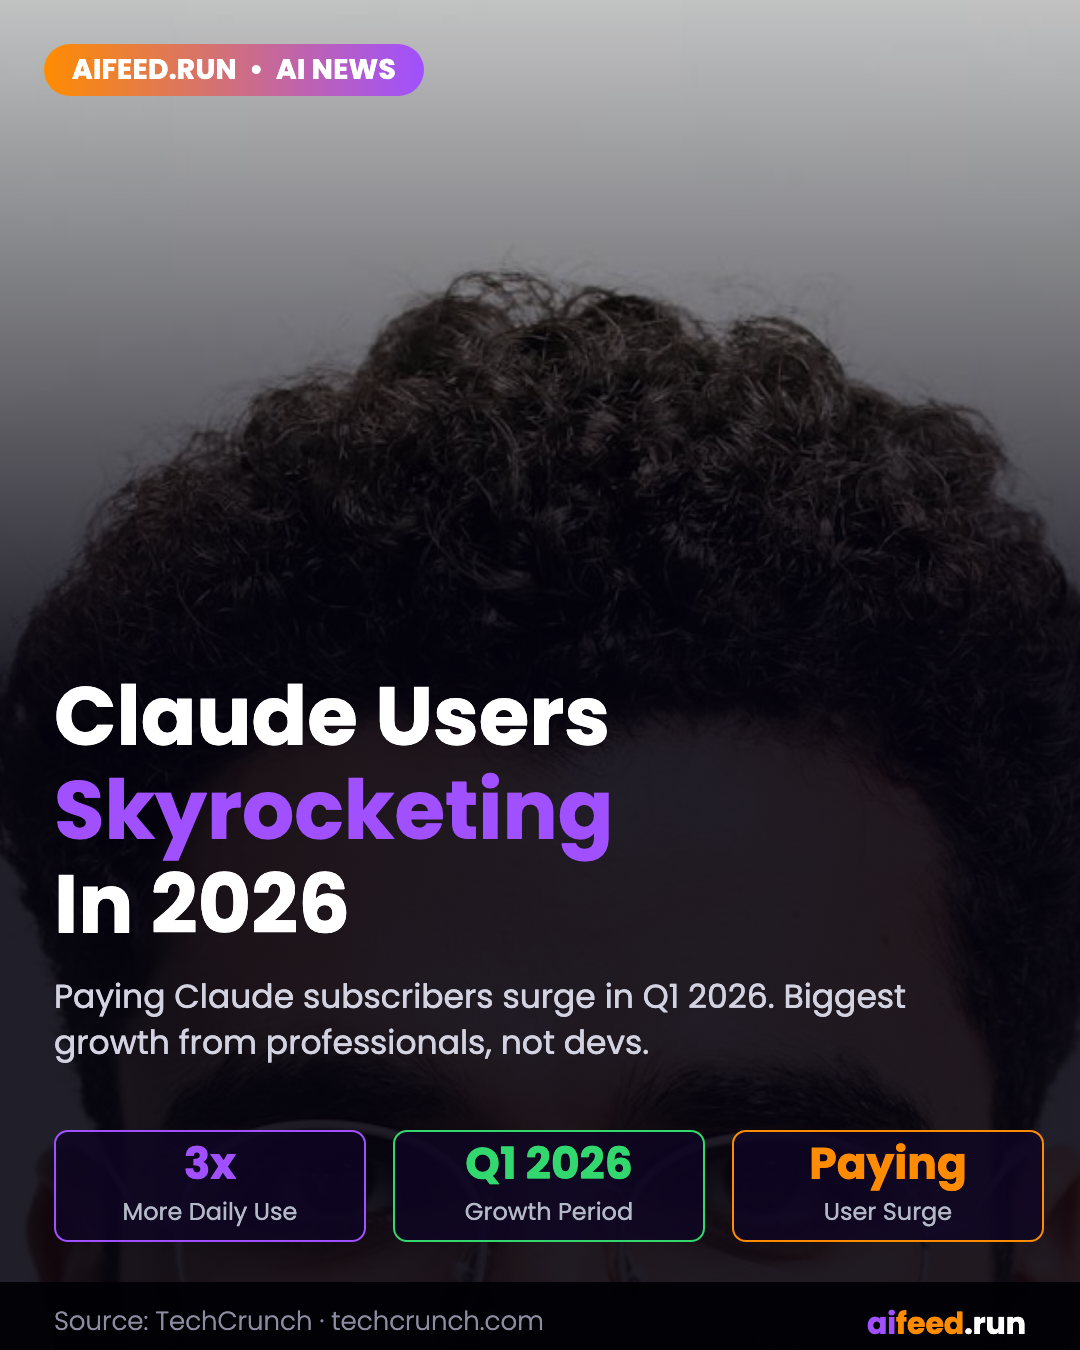
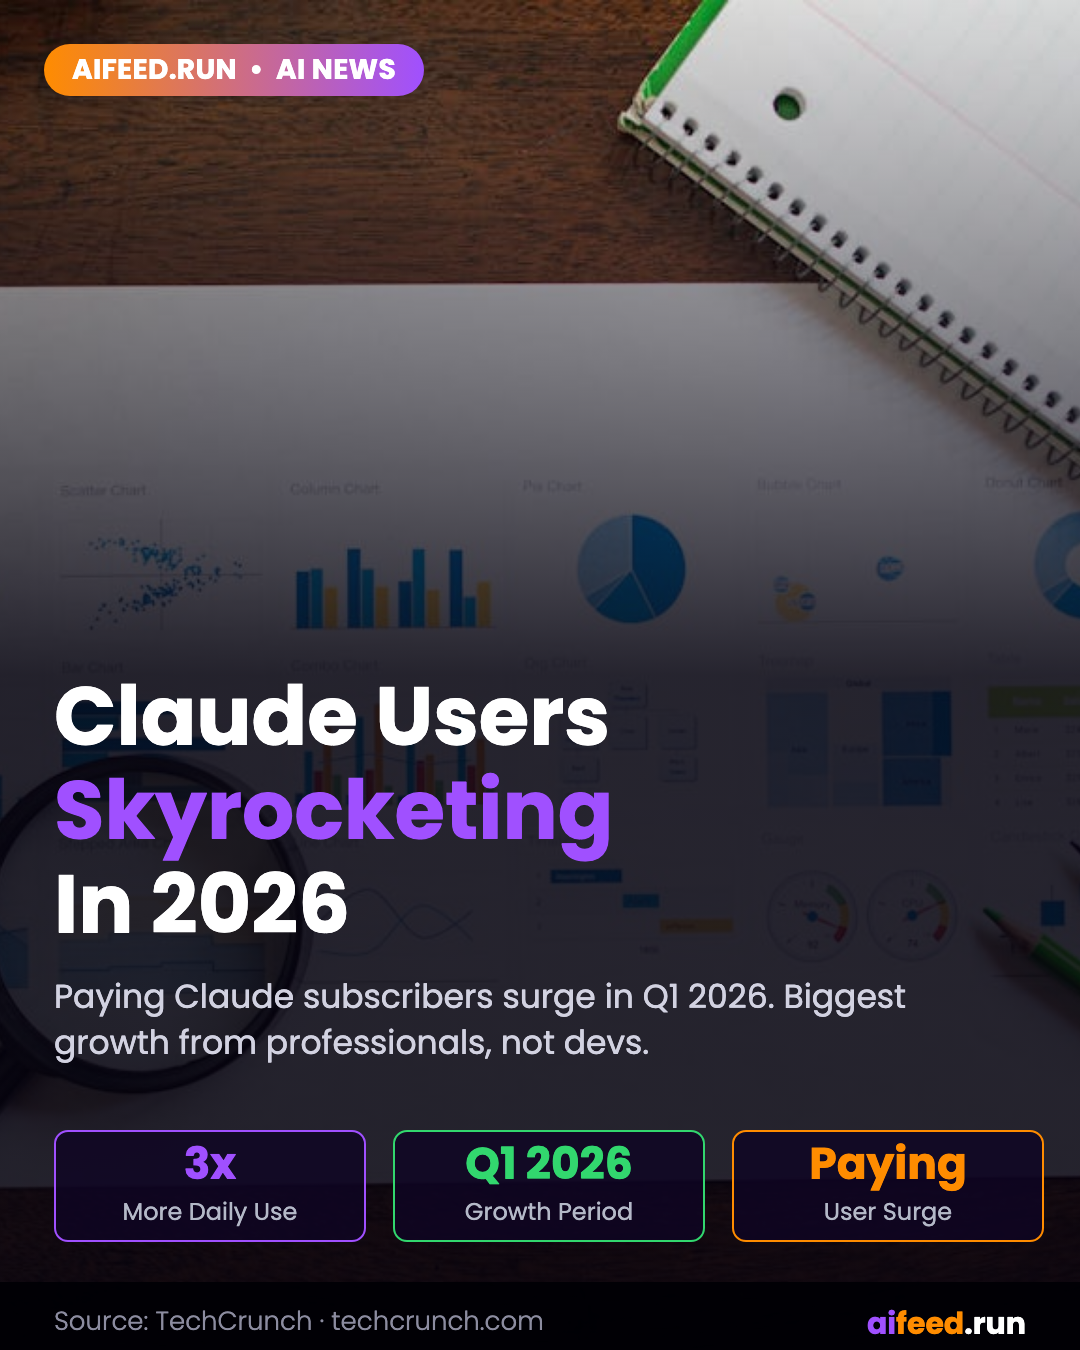
Replace Claude popularity graphic background with abstract tech image
Previous background (bg_claudepop.jpg, Pexels 5474305) was a close-up of hair — replaced with bg_claudepop2.jpg (Pexels 7947663, abstract tech/AI visual). Updated CLAUDE.md background registry accordingly.

diff --git a/CLAUDE.md b/CLAUDE.md
@@ -188,7 +188,7 @@ Each display line: **max 4 words, max 20 characters**. At 82px font, more than ~
 | aifeed_google_opens_gemma.png | bg_gemmaopen.jpg | unique (Pexels 1181671) |
 | aifeed_vcs_poured.png | bg_vcs.jpg | unique (Pexels 3184360) |
 | aifeed_stanford_chatbots.png | bg_stanford.jpg | unique (Pexels 4101143) |
-| aifeed_anthropic.png | bg_claudepop.jpg | unique (Pexels 5474305) |
+| aifeed_anthropic.png | bg_claudepop2.jpg | unique (Pexels 7947663, abstract tech/AI) |
 | aifeed_federal_judge.png | bg_judge.jpg | unique (Pexels 5668858) |
 | aifeed_bofa_agents.png | bg_bofa.jpg | unique (Pexels 3184339) |
 | aifeed_listenlabs.png | bg_listenlabs.jpg | unique (Pexels 3184465) |
